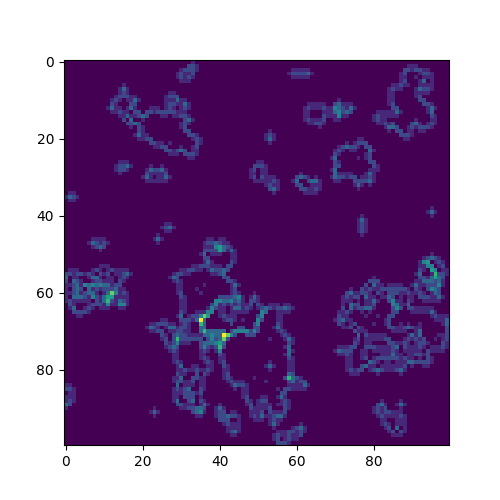
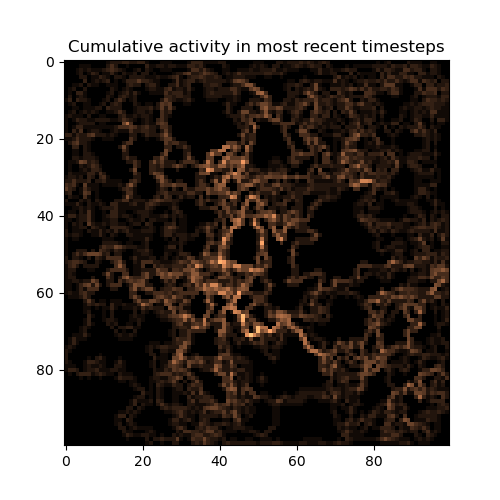
changed the frames in readme and cmap in python code

diff --git a/cellular_automata/hw_cellular.py b/cellular_automata/hw_cellular.py
@@ -123,7 +123,7 @@ if __name__ == "__main__":
     all_diffs = all_diffs[np.sum(all_diffs, axis=(1, 2)) > 1] # Filter to only keep big events
     most_recent_events = np.sum(all_diffs[-100:], axis=0)
     plt.figure(figsize=(5, 5))
-    plt.imshow(most_recent_events)
+    plt.imshow(most_recent_events, cmap='copper')
     plt.title("Avalanch activity in most recent timesteps")
 
     all_diffs = np.abs(np.diff(np.array(model.history), axis=0))
@@ -135,6 +135,7 @@ if __name__ == "__main__":
 
     plt.figure(figsize=(5, 5))
     plt.imshow(activity_sliding[-1])
+    plt.title("Cumulative activity in most recent timesteps")
     activity_sliding2 = activity_sliding[-500:]
     vmin = np.percentile(activity_sliding2, 1)
     # vmin = 0

diff --git a/cellular_automata/README.md b/cellular_automata/README.md
@@ -8,4 +8,4 @@
 Here is a gif made from each step of avalanche.
 |        Avalanche! |
 |:----------: |
-![](/cellular_automata/figs/avalanche_gif.gif)
+![](/cellular_automata/figs/sandpile_copper.gif)
